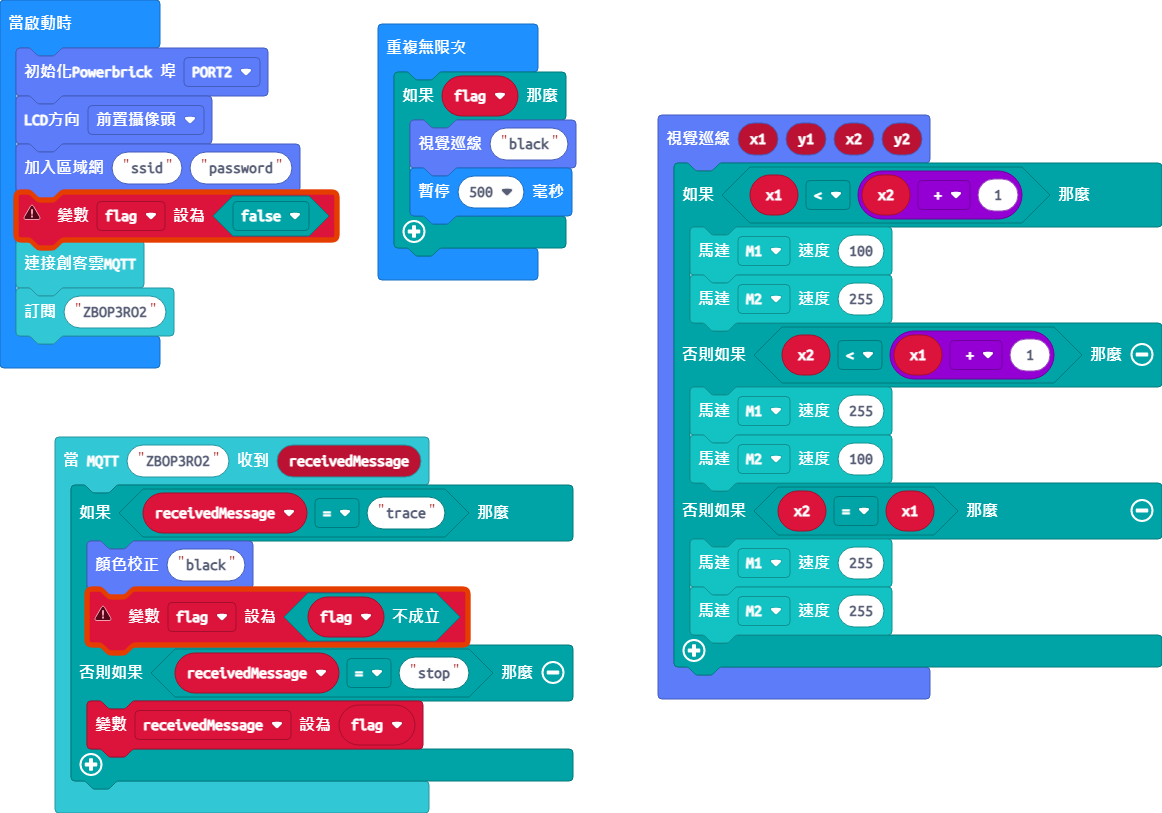
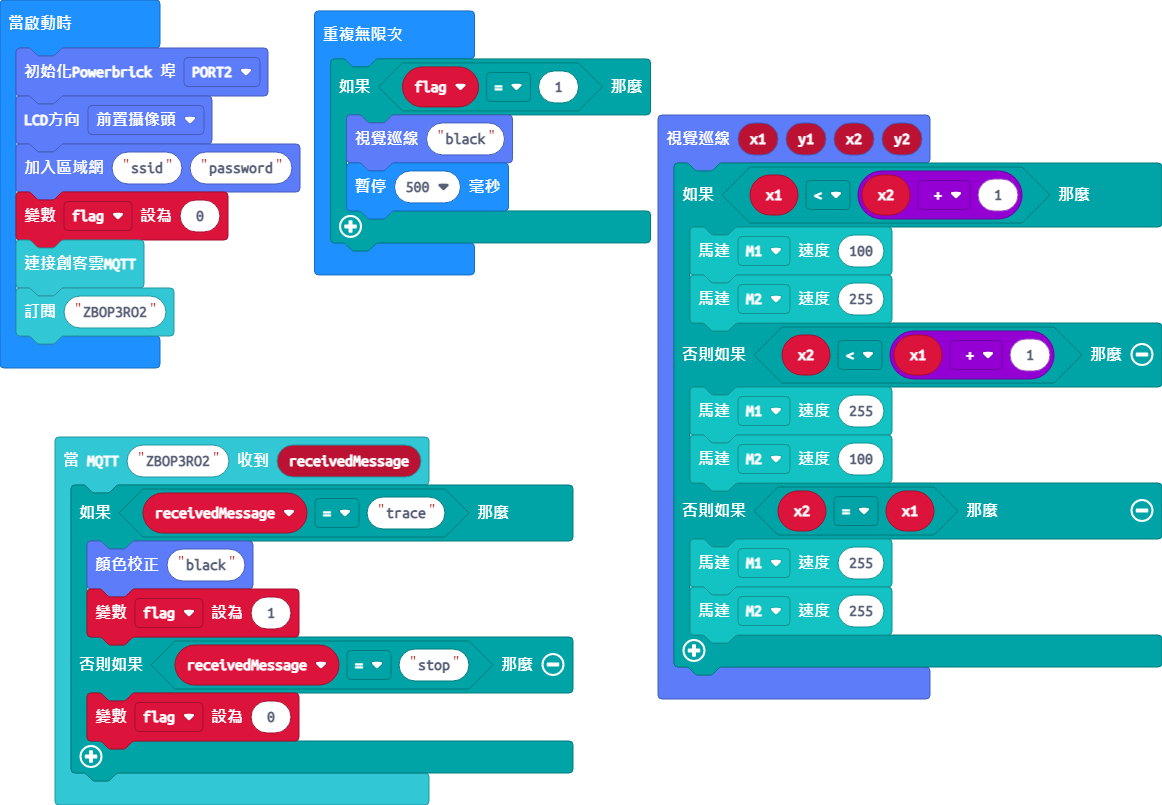
更新 main.blocks, main.ts

Changed region(s): [[0.0, 0.0, 1.0, 0.8696], [0.031, 0.528, 0.4957, 0.9627], [0.0, 0.0, 0.062, 0.0311]]

diff --git a/main.ts b/main.ts
@@ -1,9 +1,9 @@
 MakerCloud_KOI.registerTopicMessageHandler("ZBOP3RO2", function (receivedMessage) {
     if (receivedMessage == "trace") {
         koi.koi_colorcali("black")
-        flag = !(flag)
+        flag = 1
     } else if (receivedMessage == "stop") {
-        receivedMessage = flag
+        flag = 0
     }
 })
 koi.koi_onlinetrack(function (x1, y1, x2, y2) {
@@ -18,15 +18,15 @@ koi.koi_onlinetrack(function (x1, y1, x2, y2) {
         powerbrick.MotorRun(powerbrick.Motors.M2, 255)
     }
 })
-let flag = ""
+let flag = 0
 koi.koi_init_pw(koi.SerialPorts.PORT2)
 koi.koi_lcd_direction(koi.LcdDirection.Front)
 koi.koi_join_ap("ssid", "password")
-flag = false
+flag = 0
 MakerCloud_KOI.connectMakerCloudMQTT()
 MakerCloud_KOI.subscribeTopic("ZBOP3RO2")
 basic.forever(function () {
-    if (flag) {
+    if (flag == 1) {
         koi.koi_track_line("black")
         basic.pause(500)
     }
